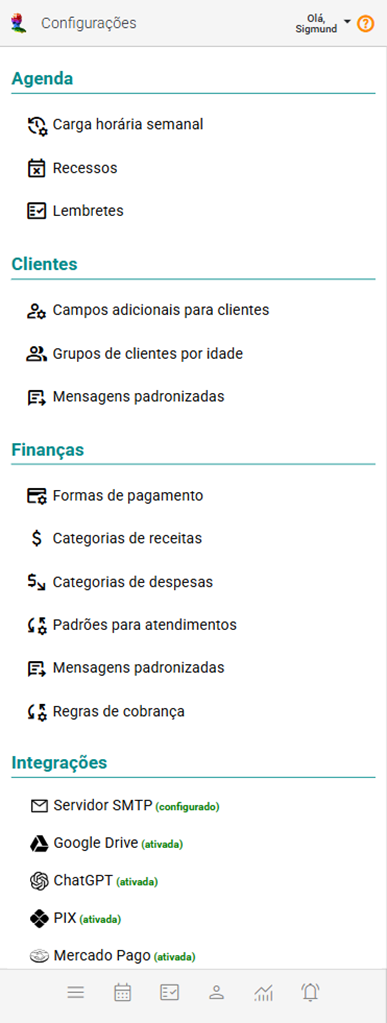
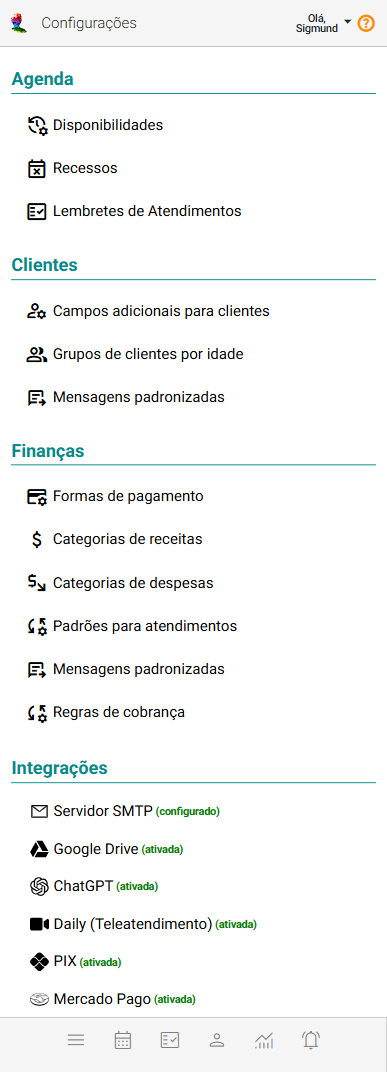
nilson

diff --git a/docs/07_funcionalidades/01-configuracoes/04_integracoes/04_daily.md b/docs/07_funcionalidades/01-configuracoes/04_integracoes/04_daily.md
@@ -1,0 +1,85 @@
+---
+sidebar_position: 4
+---
+
+# Daily (Teleatendimento)
+
+O **eConsult** conta com **integração nativa com o Daily (daily.co)**, uma plataforma moderna e segura de **teleatendimento por vídeo**, pensada para facilitar consultas remotas com seus pacientes.
+
+Essa funcionalidade permite que você realize atendimentos diretamente pela plataforma, com **qualidade de áudio e vídeo**, sem necessidade de instalar programas adicionais.
+
+A integração é simples, rápida e não exige conhecimentos técnicos avançados.
+
+---
+
+## Vantagens do Teleatendimento com Daily
+
+Com essa integração, você pode:
+
+- **Realizar atendimentos por vídeo** com apenas um clique, direto do eConsult
+- Enviar **links de acesso seguros** para pacientes automaticamente
+- Garantir **criptografia ponta a ponta**, protegendo os dados sensíveis
+- Utilizar em qualquer dispositivo (computador, tablet ou celular)
+- **Evitar custos adicionais**, pois o Daily tem planos flexíveis e acessíveis
+
+---
+
+## Como funciona a integração
+
+1. **No agendamento de atendimento**, você verá o botão **Teleatendimento**.
+
+2. Ao clicar, o sistema gera automaticamente uma **sala de atendimento segura**, com link exclusivo.
+
+3. O link pode ser:
+   - Copiado para envio manual  
+   - Ou enviado diretamente ao paciente via e-mail
+
+4. O paciente acessa a sala no navegador, **sem necessidade de cadastro ou instalação de app**.
+
+---
+
+## Configurar sua Conta no Daily
+
+Para ativar o teleatendimento via Daily no eConsult, siga estes passos:
+
+### 1. Crie uma conta no Daily
+
+- Acesse: [https://www.daily.co](https://www.daily.co)
+- Clique em **“Sign Up”** para criar sua conta
+
+### 2. Copie sua API Key
+
+- Após criar sua conta, acesse o painel: [https://dashboard.daily.co/developers](https://dashboard.daily.co/developers)
+- Copie sua chave para usar no eConsult
+
+### 3. Configure no eConsult
+
+- No eConsult, vá até o painel **Configurações**
+- Acesse **Integrações / Daily (Teleatendimento)**
+- Cole a **chave de API** copiada anteriormente
+- Clique em **Salvar**
+
+**Pronto!** A partir de agora, você poderá iniciar videochamadas diretamente no eConsult.
+
+---
+
+## Dicas de Uso
+
+- Utilize o **Google Chrome ou Safari** para melhor compatibilidade
+- Fones de ouvido com microfone ajudam a melhorar a qualidade do áudio
+- Certifique-se de que seu navegador tenha permissão para acessar **câmera e microfone**
+
+---
+
+## Planos e Limites do Daily
+
+O Daily possui um plano gratuito com:
+
+- **Até 10.000 minutos grátis todos os meses**
+
+Caso precise de mais tempo, é possível contratar planos pagos diretamente na plataforma [Daily.co](https://www.daily.co/pricing).
+
+---
+
+Se tiver dúvidas sobre a integração ou como utilizar o recurso, entre em contato com o suporte técnico do eConsult:  
+📧 atendimento@econsult.app.br

diff --git a/docs/07_funcionalidades/01-configuracoes/04_integracoes/06_pix.md b/docs/07_funcionalidades/01-configuracoes/04_integracoes/06_pix.md
@@ -1,5 +1,5 @@
 ---
-sidebar_position: 4
+sidebar_position: 6
 ---
 
 # PIX
